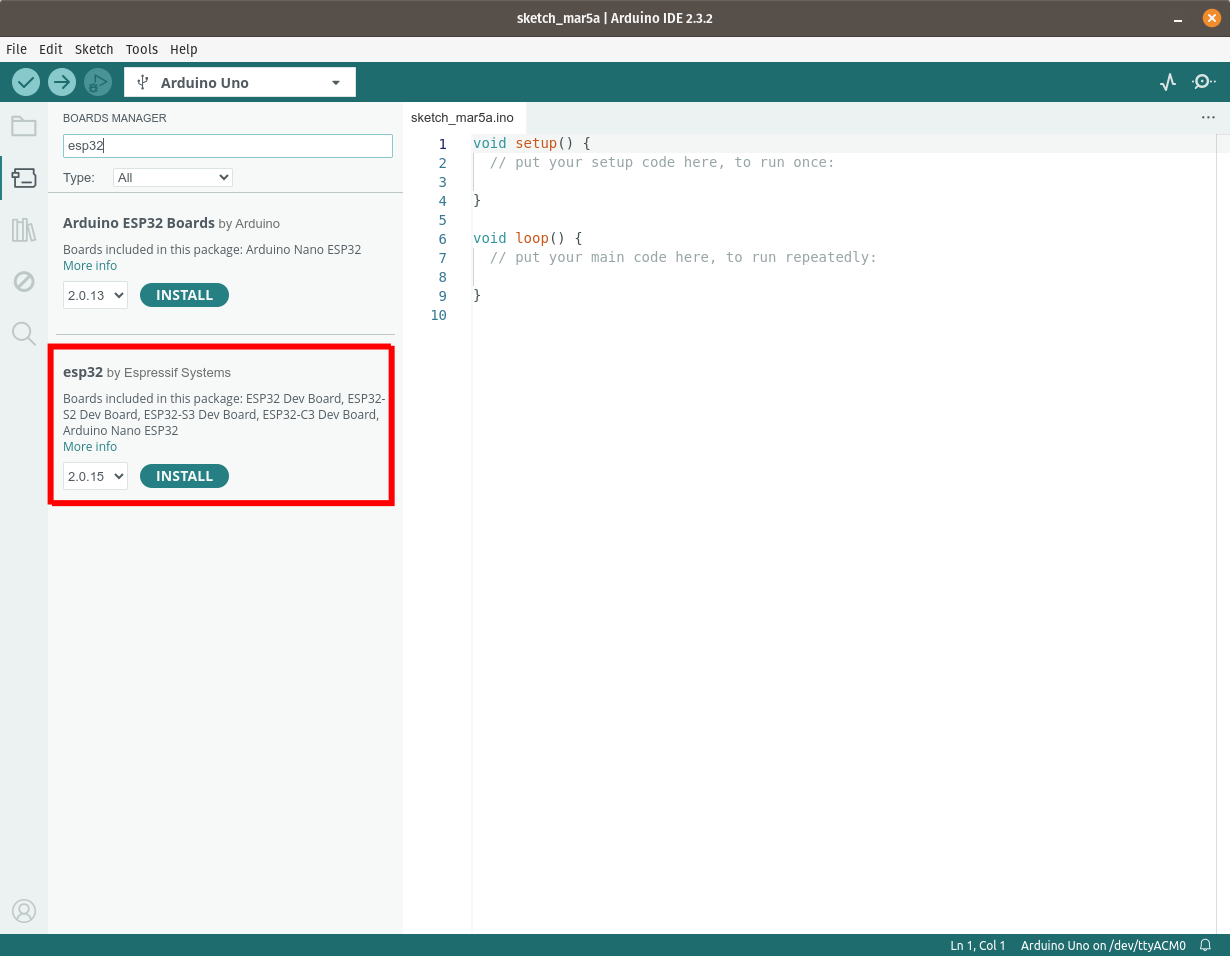
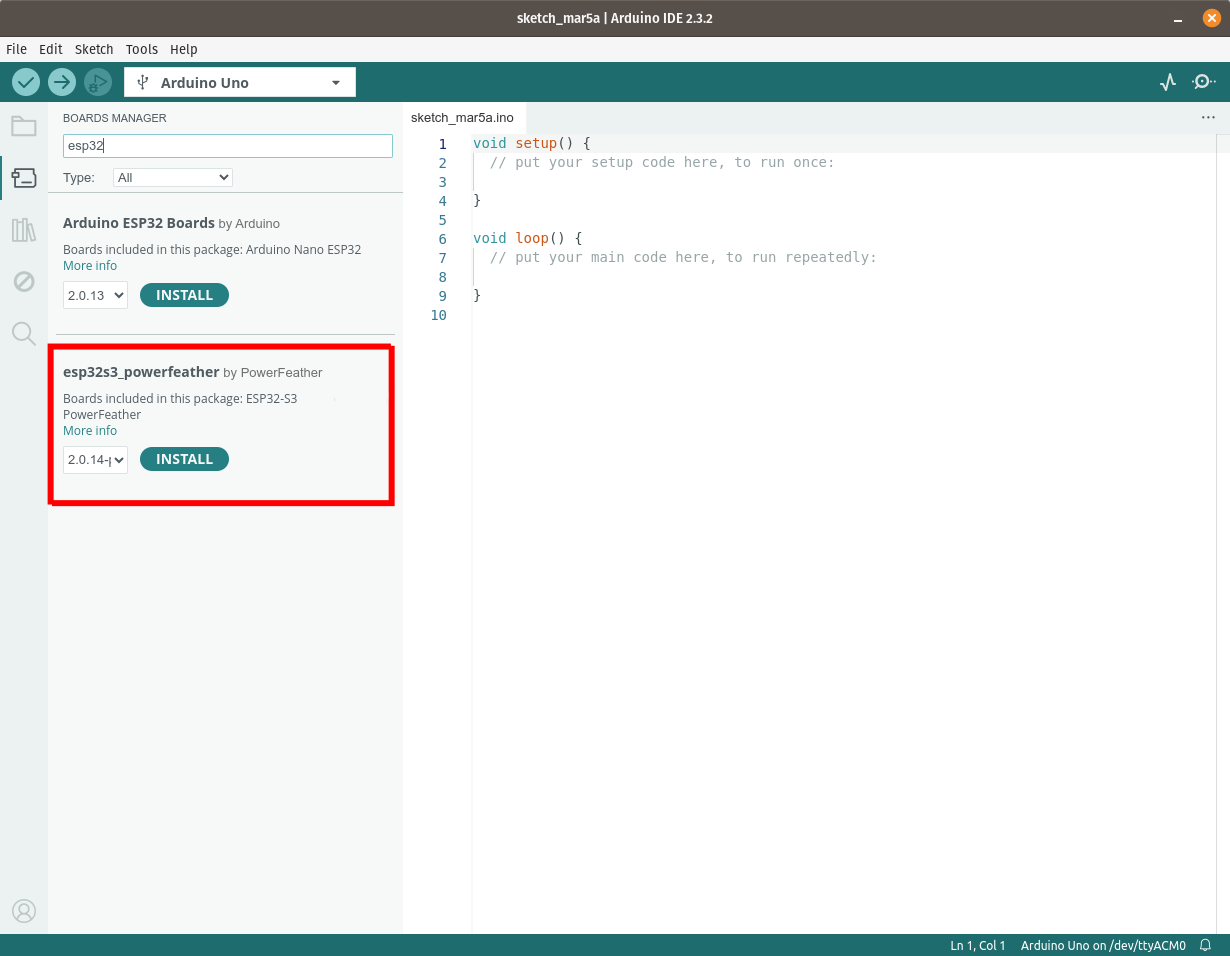
Use custom board package in setup

Changed region(s): [[0.0309, 0.3944, 0.3089, 0.5157], [0.0927, 0.364, 0.2472, 0.3944]]

diff --git a/docs/sdk/setup.md b/docs/sdk/setup.md
@@ -8,11 +8,21 @@ sidebar_position: 0
 
 Install the following:
 
-1. [Arduino v2.x](https://docs.arduino.cc/software/ide-v2/tutorials/getting-started/ide-v2-downloading-and-installing/) or newer.
-2. [Arduino ESP32](https://docs.espressif.com/projects/arduino-esp32/en/latest/installing.html) 2.0.15 or newer.
+1. Arduino v2.x or newer. Please follow the [installation instructions for your OS](https://docs.arduino.cc/software/ide-v2/tutorials/getting-started/ide-v2-downloading-and-installing/).
+
+2. Board support for ESP32-S3 PowerFeather. Follow the [instructions on adding third party platforms using the Board Manager](https://support.arduino.cc/hc/en-us/articles/360016466340-Add-third-party-platforms-to-the-Boards-Manager-in-Arduino-IDE). Please use the following for the *Additional Boards Manager URL*:
+
+    ```
+    https://powerfeather.github.io/package_powerfeather_index.json
+    ```
     ![Add Board Manager](assets/add_board_manager.png)
+
+    Install *esp32s3_powerfeather by PowerFeather*.
+
     ![Install Arduino-ESP32](assets/install_arduino_esp32.png)
+
 3. PowerFeather-SDK 1.0.0 or newer. Follow the [instructions for installing a library](https://docs.arduino.cc/software/ide-v2/tutorials/ide-v2-installing-a-library/).
+
     ![Install PowerFeather-SDK](assets/install_powerfeather.png)
 
 To test if setup was done properly, create a sketch with the following content:
